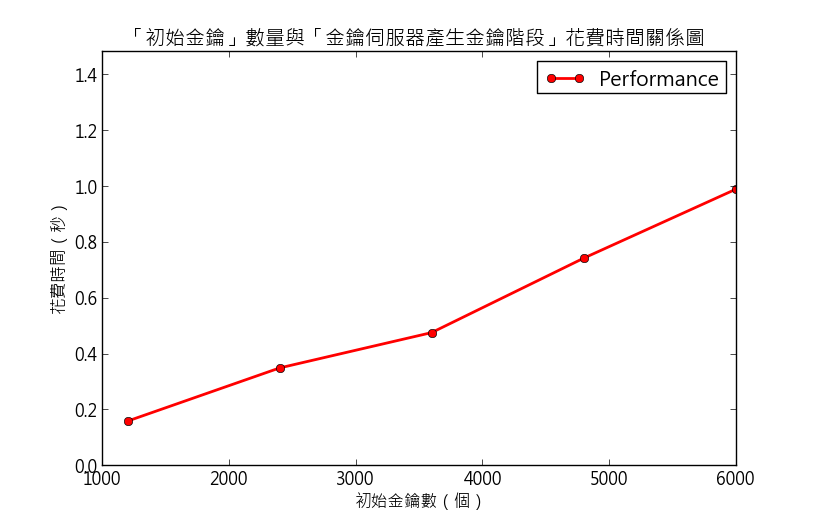
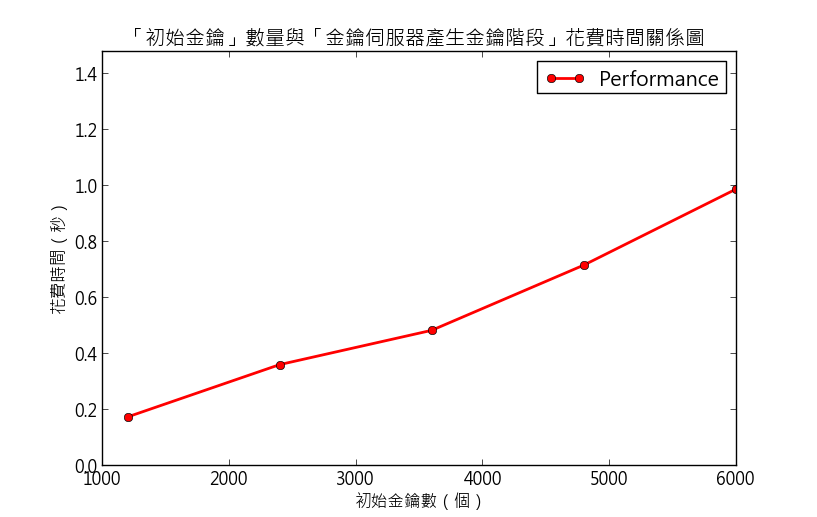
update

diff --git a/medical_server.py b/medical_server.py
@@ -25,7 +25,7 @@ import base64
 from Crypto.Cipher import AES
 from Crypto import Random
 from Crypto.Random import random
-BS = 16
+BS = 32
 pad = lambda s: s + (BS - len(s) % BS) * chr(BS - len(s) % BS) 
 unpad = lambda s : s[0:-ord(s[-1])]
 class AESCipher:
@@ -40,9 +40,9 @@ class AESCipher:
 
     def decrypt(self, enc):
         enc = base64.b64decode(enc)
-        iv = enc[:BS]
+        iv = enc[:16]
         cipher = AES.new(self.key, AES.MODE_CBC, iv )
-        return unpad(cipher.decrypt( enc[BS:] ))
+        return unpad(cipher.decrypt( enc[16:] ))
 
 # 通用金鑰產生器
 def gen_key():

diff --git a/README.md b/README.md
@@ -28,8 +28,8 @@ PyCrypto (Windows)
 	無線感測節點總數 1000
 
 
-![](http://i.imgur.com/fzEyVni.png)
+![](http://i.imgur.com/WSCZjSd.png)
 
-![](http://i.imgur.com/BS7Nxb4.png)
+![](http://i.imgur.com/HKDX1pW.png)
 
-![](http://i.imgur.com/X3EJEYs.png)
+![](http://i.imgur.com/VN6c6ho.png)
